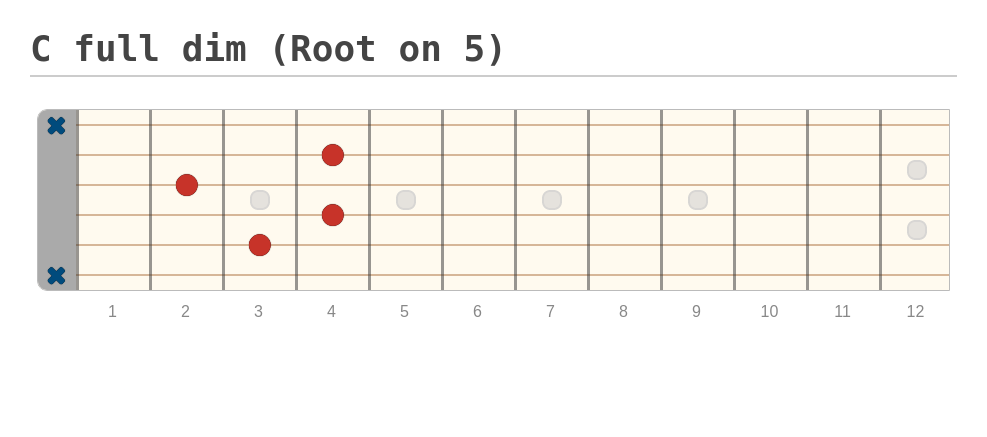
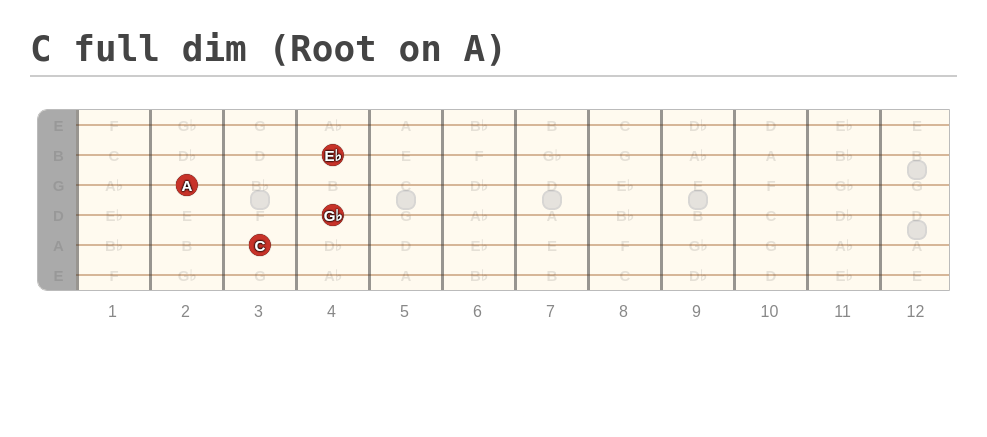
diminished chords continued

diff --git a/README.md b/README.md
@@ -1,29 +1,29 @@
 
-**Diminished Chords:**
+**[Diminished Chords](https://www.fretjam.com/diminished-7th-chords.html):**
 
-Basic Diminished Triad Harmony is (1,b3,b5). 
-Chords are built from triads in the major scale. For eg, C scale (C-D-E-F-G-A-B-C), Cdim would be C, D#, F# (1,b3,b5)
+Basic Diminished Triad Harmony is (1,b3,b5). Cdim would be C, Eb, Gb (1,b3,b5)
 
 ![C diminished chord](./images/C%20dim.png "C diminished chord")
 
 
 
 Half-Diminished Chords: (1,b3,b5,b7)
-(Also known as a minor 7 flat 5 chord). So a C half diminished chord would have an added Bb note, ie, (C,D#,F,Bb)
+(Also known as a minor 7 flat 5 chord). So a C half diminished chord would have an added Bb note, ie, (C,Eb,Gb,Bb)
 
 ![C half diminished chord](./images/C%20half%20dim.png "C half diminished chord")
 
 
-Full-Diminished Chords: (1,b3,b5,bb7) or (1,b3,b5,6)
+Full-Diminished or Diminished 7 Chords: (1,b3,b5,bb7) or (1,b3,b5,6)
 Double flat 7th note means the 6th note of a major scale. 
 ![C full diminished chord](./images/C%20full%20dim.png "C full diminished chord")
 
 
 Full Dimished Chord Shapes Across the Fretboard: 
-1. Root on the E string: 
+
+1. Root on the E string (Only in Cdim7 you can use open A string): 
 ![C full diminished](./images/C%20full%20dim%20(Root%20on%206).png)
 
-2. Root on A string: 
+2. Root on A string
 ![C full diminished](./images/C%20full%20dim%20(Root%20on%205).png)
 
 3. Root on D string: 
@@ -49,6 +49,37 @@ Typically used as a transition/bridge chord. Examples:
 
 - Interesting fact about the diminished shape (applicable to all shapes ) is that when you slide it up 3 frets, you still get the same chords, just different order of notes. This happens due to the fact that each note of a diminished chord is separated from each other by a minor third interval, ie, 3 frets. 
 
+Properties: 
+- Every note is a minor third (3 half steps) apart. The chord repeats itself after every b3 interval (3 frets). dim7 chords in the same row are the same. 
+
+1   | 4  | 7   | 10            
+----|----|-----|----
+ C  | Eb | Gb  | A
+ Db | E  | G   | Bb 
+ D  | F  | G\# | B   
+
+- Resolves into both major and minor. So for every dim7 chord, we have 8 options to resolve it. 
+For chords of a major scale, the 7th chord is a diminished triad, but in practice we can use the full dim 7 shape (with the added 6th) and use it to resolve to I. 
+
+    A C<sup>o</sup> 7 can resolve into Db (I)  
+In a minor scale, (i ii<sup>o</sup> III iv v VI VII) the second chord is a diminished chord. So a C<sup>o</sup> 7 (ii<sup>o</sup> chord for Bbm) would resolve into a Bbm (I). 
+
+In summary, we can **Resolve UP a 1/2 step to a major chord** or **Resolve DOWN a 1 step to a minor chord**.
+
+Now, since every dim7 chord has 4 inversions around its 4 base notes, every such chord can resolve to their respective major and minor tonal centres. For eg, <br>
+    to resolve D<sup>o</sup> 7, containing notes D F Ab B, <br>
+    D<sup>o</sup> 7-> Eb (UP a 1/2 step to a major chord)<br>
+    D<sup>o</sup> 7 -> Cm (DOWN 1 step to a minor chord)<br>
+    D<sup>o</sup> 7 <-> F<sup>o</sup> 7 -> Gb (UP a 1/2 step to a major chord)<br>
+    D<sup>o</sup> 7 <-> F<sup>o</sup> 7 -> Ebm (DOWN a 1 step to a minor chord)<br>
+    D<sup>o</sup> 7 <-> Ab<sup>o</sup> 7 -> A (UP a 1/2 step to a major chord)<br>
+    D<sup>o</sup> 7 <-> Ab<sup>o</sup> 7 -> Gbm (DOWN a 1 step to a minor chord)<br>
+    D<sup>o</sup> 7 <-> B<sup>o</sup> 7 -> C (UP a 1/2 step to a major chord)<br>
+    D<sup>o</sup> 7 <-> B<sup>o</sup> 7 -> Am (DOWN a 1 step to a minor chord)<br>
+
+
+
+ 
 **Practice Progressions**: 
 - Am | C6 | B half dim | E7 (Bossa Nova)
 - C / F / C / Db dim7 / Dm / G 
